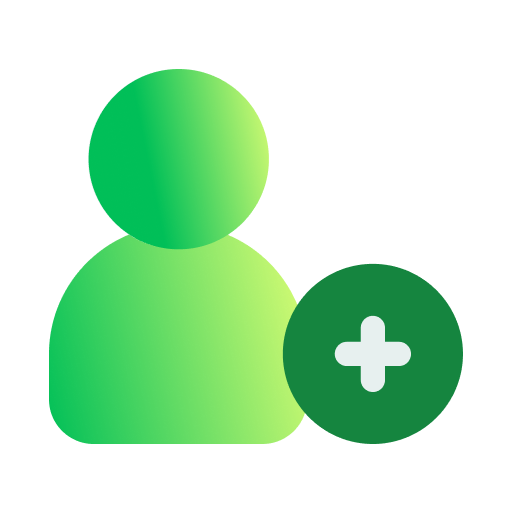
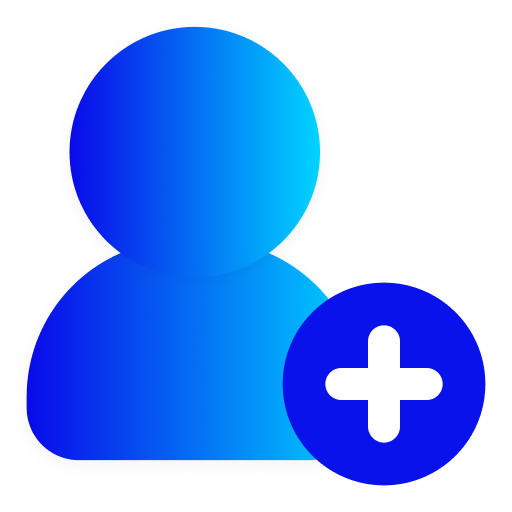
worked on update images and theme in alanced and aligned checkbox in findtalent.js.

diff --git a/src/container/hirer/FindTalent.js b/src/container/hirer/FindTalent.js
@@ -252,8 +252,8 @@ const FindTalent = () => {
     return (
       <>
       <Navbar/>
-      <div className="h-[43vh] bg-no-repeat -mt-[1.3rem] bg-cover" style={{ backgroundImage: `url(${mybg})` }}>
-        <div className='text-left pt-[3rem] ml-[13.5vw] text-2xl font-cardo'>
+      <div className="h-[43vh] bg-no-repeat -mt-[1.2rem] bg-cover" style={{ backgroundImage: `url(${mybg})` }}>
+        <div className='text-left pt-[6rem] ml-[13.5vw] text-2xl font-cardo'>
           <h1>Find & Hire Freelancers</h1>
           <p className='font-inter text-sm text-[#797979] font-normal mt-2'>More than 10K expert freelancers are waiting for you</p>
           <div className='lg:w-[44vw] bg-white p-3 lg:h-14 rounded-2xl lg:flex items-center mt-4 shadow-md'>
@@ -262,7 +262,7 @@ const FindTalent = () => {
               <input className='w-96 font-inter text-base ml-3 outline-none' placeholder='Search by Category' value={searchQuery} onChange={(e) => setSearchQuery(e.target.value)}></input>
             </div>
             <div className=''>
-              <button className='rounded h-8 w-24 lg:ml-6 font-semibold text-base text-white bg-gradient-to-r from-[#00BF58] to-[#E3FF75]'>Search</button>
+              <button className='rounded h-8 w-24 lg:ml-6 font-semibold text-base text-white bg-gradient-to-r from-[#0909E9] to-[#00D4FF]'>Search</button>
             </div>
           </div>
         </div>
@@ -283,7 +283,7 @@ const FindTalent = () => {
         onChange={handleSkillFilterChange}
       />
                   <div className="checkbox-border-gradient bg-transparent mr-3 w-5 h-5 rounded flex items-center justify-center">
-                      <span className="checkmark hidden"><i className="bi bi-check-lg pr-2 pt-2"></i></span>
+                      <span className="checkmark hidden"><i className="bi bi-check-lg pr-0.5 pt-2"></i></span>
                   </div>
                   <span className="normal-checkbox mr-3 border border-gray-300 w-5 h-5 inline-block rounded"></span>
                   <span className="font-normal text-[#797979]">{skill}</span>
@@ -320,7 +320,7 @@ const FindTalent = () => {
                 railStyle={{ background: 'lightgray' }}
                 trackStyle={[
                   {
-                    background: 'linear-gradient(45deg, #00BF58, #E3FF75)',
+                    background: 'linear-gradient(45deg, #0909E9, #00D4FF)',
                     borderColor: '#65a30d',
                   },
                 ]}
@@ -329,14 +329,14 @@ const FindTalent = () => {
                     backgroundColor: 'white',
                     borderColor: 'transparent', 
                     borderRadius: '50%', // Set border radius for circular shape
-                    borderImage: 'linear-gradient(45deg, #00BF58, #E3FF75)',
+                    borderImage: 'linear-gradient(45deg, #0909E9, #00D4FF)',
                     borderImageSlice: 1,
                   },
                   {
                     backgroundColor: 'white',
                     borderColor: 'transparent',
                     borderRadius: '50%',
-                    borderImage: 'linear-gradient(45deg, #00BF58, #E3FF75)',
+                    borderImage: 'linear-gradient(45deg, #0909E9, #00D4FF)',
                     borderImageSlice: 1,
                   },
                 ]}
@@ -346,7 +346,7 @@ const FindTalent = () => {
                 type="text"
                 value={range[0]}
                 onChange={(e) => handleInputChange(0, e.target.value)}
-                className='mt-3 bg-white text-center border rounded-md p-1 basis-6/12 font-inter text-base font-normal text-[#797979] w-24 focus:border-none focus:ring-2 focus:ring-green-700 focus:ring-opacity-60
+                className='mt-3 bg-white text-center border rounded-md p-1 basis-6/12 font-inter text-base font-normal text-[#797979] w-24 focus:border-none focus:ring-2 focus:ring-blue-700 focus:ring-opacity-60
                 focus:outline-none'
               /></div>
               <div className='basis-2/12 m-auto mt-4 text-center'><i class="bi bi-dash-lg text-[#475569]"></i></div>
@@ -354,7 +354,7 @@ const FindTalent = () => {
                 type="text"
                 value={range[1]}
                 onChange={(e) => handleInputChange(1, e.target.value)}
-                className='mt-3 bg-white text-center border rounded-md p-1 basis-6/12 font-inter text-base font-normal text-[#797979] w-24 focus:border-none focus:ring-2 focus:ring-green-700 focus:ring-opacity-60
+                className='mt-3 bg-white text-center border rounded-md p-1 basis-6/12 font-inter text-base font-normal text-[#797979] w-24 focus:border-none focus:ring-2 focus:ring-blue-700 focus:ring-opacity-60
                 focus:outline-none'
               /></div>
               </div>
@@ -373,7 +373,7 @@ const FindTalent = () => {
               onChange={handleCityFilterChange}
             />
             <div className="checkbox-border-gradient bg-transparent mr-3 w-5 h-5 rounded flex items-center justify-center">
-              <span className="checkmark hidden"><i className="bi bi-check-lg pr-2 pt-2"></i></span>
+              <span className="checkmark hidden"><i className="bi bi-check-lg pr-0.5 pt-2"></i></span>
             </div>
             <span className="normal-checkbox mr-3 border border-gray-300 w-5 h-5 inline-block rounded"></span>
             <span className="font-normal text-[#797979]">{location}</span>
@@ -411,7 +411,7 @@ const FindTalent = () => {
                   onChange={handleLanguageFilterChange}
                     />
                   <div className="checkbox-border-gradient bg-transparent mr-3 w-5 h-5 rounded flex items-center justify-center">
-                      <span className="checkmark hidden"><i className="bi bi-check-lg pr-2 pt-2"></i></span>
+                      <span className="checkmark hidden"><i className="bi bi-check-lg pr-0.5 pt-2"></i></span>
                   </div>
                   <span className="normal-checkbox mr-3 border border-gray-300 w-5 h-5 inline-block rounded"></span>
                   <span className="font-normal text-[#797979]">{language}</span>
@@ -450,7 +450,7 @@ const FindTalent = () => {
       />
               <div class="checkbox-border-gradient bg-transparent mr-3 w-5 h-5 rounded flex items-center justify-center">
                 
-                  <span class="checkmark hidden"><i class="bi bi-check-lg pr-2 pt-2"></i></span>
+                  <span class="checkmark hidden"><i class="bi bi-check-lg pr-0.5 pt-2"></i></span>
               </div>
                    <span class="normal-checkbox mr-3 border border-gray-300 w-5 h-5 inline-block rounded"></span>
               <span class="font-normal text-[#797979]">{exp}</span>
@@ -468,7 +468,7 @@ const FindTalent = () => {
       <h1  className="font-cardo text-[21px] text-[#031136] font-normal mr-1">Freelancers that Matches your Job</h1>
       </div>
       <div class="w-40  mt-3 relative">
-      <div class="absolute inset-0 bg-gradient-to-r from-[#00BF58] to-[#E3FF75] rounded-lg"></div>
+      <div class="absolute inset-0 bg-gradient-to-r from-[#0909E9] to-[#00D4FF] rounded-lg"></div>
       <div class="border-gray-600 border-b-2 rounded-lg"></div>
     </div>   
       </div>
@@ -493,7 +493,7 @@ const FindTalent = () => {
 {free.about && free.about.split(' ').length > 20 && (
     <button
         onClick={() => toggleShowMoreDes(free.id)}
-        className='font-inter text-green-600 text-[14px] cursor-pointer font-bold inline-block mb-2'
+        className='font-inter text-blue-600 text-[14px] cursor-pointer font-bold inline-block mb-2'
     >
         {showMoreDes[free.id] && showMoreDes[free.id].showAllDes ? 'See Less' : 'See More'}
     </button>
@@ -517,7 +517,7 @@ const FindTalent = () => {
                     JSON.parse(free.skills.replace(/'/g, '"')).length > 4 && (
                         <button
                             onClick={() => toggleShowMoreSkills(free.id)}
-                            className='font-inter text-green-600 text-[14px] cursor-pointer font-bold'
+                            className='font-inter text-blue-600 text-[14px] cursor-pointer font-bold'
                         >
                             {showMoreSkills[free.id] && showMoreSkills[free.id].showAll ? ' Less' : ' More'}
                         </button>
@@ -536,9 +536,9 @@ const FindTalent = () => {
           </div>
          
         <div className=' flex flex-row'>
-            <div className=' basis-8/12 absolute bottom-4 items-center font-inter text-green-600 text-[14px] cursor-pointer font-bold hover:underline'><Link to='/view-freelancer/detail' state={{ free }} onClick={() => window.scroll(0, 0) }><p>View more detail</p></Link></div>
+            <div className=' basis-8/12 absolute bottom-4 items-center font-inter text-blue-600 text-[14px] cursor-pointer font-bold hover:underline'><Link to='/view-freelancer/detail' state={{ free }} onClick={() => window.scroll(0, 0) }><p>View more detail</p></Link></div>
             <div className=' basis-4/12 absolute bottom-2 right-6 items-center space-x-2 ml-auto'><Link to='/login'>
-            <span className="inline-block text-sm px-4 py-[10px] mt-4 lg:mt-0 bg-gradient-to-r from-[#00BF58] to-[#E3FF75] border rounded border-none text-white font-semibold">Hire Now</span>
+            <span className="inline-block text-sm px-4 py-[10px] mt-4 lg:mt-0 bg-gradient-to-r from-[#0909E9] to-[#00D4FF] border rounded border-none text-white font-semibold">Hire Now</span>
         </Link></div>
         </div>
       </div>
@@ -578,7 +578,7 @@ const FindTalent = () => {
                             variant="outlined"
                             onClick={prev}
                             disabled={currentPage === 1}
-                            style={{ backgroundImage: 'linear-gradient(45deg, #00BF58, #E3FF75)', border: 'none' }}
+                            style={{ backgroundImage: 'linear-gradient(45deg, #0909E9, #00D4FF)', border: 'none' }}
                         >
                             <ArrowLeftIcon strokeWidth={2} className="h-4 w-4 text-white" />
                         </IconButton>
@@ -588,7 +588,7 @@ const FindTalent = () => {
                             return (
                                 <span
                                     key={pageNumber}
-                                    className={`px-0 py-1 ${currentPage === pageNumber ? 'bg-clip-text text-transparent bg-gradient-to-r from-[#00BF58] to-[#E3FF75] font-bold font-inter text-[14px] cursor-pointer' : 'text-[#0A142F] font-bold font-inter text-[14px] cursor-pointer'}`}
+                                    className={`px-0 py-1 ${currentPage === pageNumber ? 'bg-clip-text text-transparent bg-gradient-to-r from-[#0909E9] to-[#00D4FF] font-bold font-inter text-[14px] cursor-pointer' : 'text-[#0A142F] font-bold font-inter text-[14px] cursor-pointer'}`}
                                     onClick={() => {
                                         window.scrollTo(0, 0);
                                         setCurrentPage(pageNumber);
@@ -605,7 +605,7 @@ const FindTalent = () => {
                             variant="outlined"
                             onClick={next}
                             disabled={currentPage === totalPages}
-                            style={{ backgroundImage: 'linear-gradient(45deg, #00BF58, #E3FF75)', border: 'none' }}
+                            style={{ backgroundImage: 'linear-gradient(45deg, #0909E9, #00D4FF)', border: 'none' }}
                         >
                             <ArrowRightIcon strokeWidth={2} className="h-4 w-4 text-white" />
                         </IconButton>

diff --git a/src/components/Layout/WhyAlanced.js b/src/components/Layout/WhyAlanced.js
@@ -18,15 +18,15 @@ const WhyAlanced = () => {
     <div className='container-sm px-32 mt-10'>
       <div className=' flex flex-row border border-gray-200 rounded'>
         <div className=' basis-8/12'>
-          <h1 className='ml-8 text-left font-jost text-[26px] mt-6 font-semibold text-lime-600'>Take part in the global job market platform.</h1>
+          <h1 className='ml-8 text-left font-jost text-[26px] mt-6 font-semibold text-blue-600'>Take part in the global job market platform.</h1>
           <div class="w-36 ml-8  mt-1 relative">
-                <div class="absolute inset-0 bg-gradient-to-r from-[#00BF58] to-[#E3FF75] rounded-lg"></div>
+                <div class="absolute inset-0 bg-gradient-to-r from-[#0909E9] to-[#00D4FF] rounded-lg"></div>
                 <div class="border-gray-600 border-b-2 rounded-lg"></div>
                 </div>
           <p className=' ml-8 font-jost  text-[15px] mt-4 opacity-[70%] text-left'>Are you geared up to take your business<br/> or career to the next level?. </p>
           <div className=' flex flex-row mt-3  mb-3 ml-7'>
-            <Link to='/view-all/freelancer'><div className=' basis-2/12' ><button className='h-10 w-28 text-white bg-gradient-to-r from-[#00BF58] to-[#E3FF75] mt-5 text-base font-semibold rounded'>Find Talent</button></div></Link>
-            <Link to='/projects'><div class="p-0.5 mt-5 rounded bg-gradient-to-b from-[#00BF58] to-[#E3FF75] ml-5">
+            <Link to='/view-all/freelancer'><div className=' basis-2/12' ><button className='h-10 w-28 text-white bg-gradient-to-r from-[#0909E9] to-[#00D4FF] mt-5 text-base font-semibold rounded'>Find Talent</button></div></Link>
+            <Link to='/projects'><div class="p-0.5 mt-5 rounded bg-gradient-to-b from-[#0909E9] to-[#00D4FF] ml-5">
             <button class="px-2 py-1 bg-[#f8faf9] rounded"><p class="bg-gradient-to-r from-primary to-danger bg-clip-text text-transparent font-bold text-sm py-[4px] px-[8px]">Find Work</p></button>
             </div></Link>
             </div>
@@ -60,31 +60,31 @@ const WhyAlanced = () => {
           <div className=' basis-6/12 ml-16 border-r border-gray-200'>
             <h1 className='font-jost text-[24px] mt-8 text-left font-semibold' >Create a job posting and hire talent.</h1>
             <div class="w-32  mt-2 relative">
-                <div class="absolute inset-0 bg-gradient-to-r from-[#00BF58] to-[#E3FF75] rounded-lg"></div>
+                <div class="absolute inset-0 bg-gradient-to-r from-[#0909E9] to-[#00D4FF] rounded-lg"></div>
                 <div class="border-gray-600 border-b-2 rounded-lg"></div>
                 </div>
             <h1 className='font-jost text-[18px] mt-3 opacity-70 text-left'>Discover the perfect talent match in our Talent <br/>Marketplace.</h1>
             <p className='font-jost text-[15px] mt-4 opacity-70 text-left'>Publish your job listing on the global job market and <br/> anticipate a wave of proposals from skilled<br/> individuals spanning the globe</p>
             <p className='font-jost text-[15px] mt-4 opacity-70 text-left'>Our cutting-edge algorithms assist in identifying <br/> top candidates tailored to your needs.You have <br/> the opportunity to thoroughly review  profiles,<br/> portfolios, and feedback before granting<br/> approval.</p>
-            <div className=' text-left mb-8'> <Link to='/view-all/freelancer' onClick={() => window.scroll(0, 0)}><span class="inline-block text-[16px] px-5 py-[10px] mt-8 bg-gradient-to-r from-[#00BF58] to-[#E3FF75] border rounded border-none text-white mr-2 text-base font-semibold ">Talents</span></Link></div>
+            <div className=' text-left mb-8'> <Link to='/view-all/freelancer' onClick={() => window.scroll(0, 0)}><span class="inline-block text-[16px] px-5 py-[10px] mt-8 bg-gradient-to-r from-[#0909E9] to-[#00D4FF] border rounded border-none text-white mr-2 text-base font-semibold ">Talents</span></Link></div>
           </div>
           <div className=' basis-6/12 ml-16'>
           <h1 className='font-jost text-[24px] mt-8 text-left font-semibold' >Explore projects and get opportunities.</h1>
           <div class="w-32  mt-2 relative">
-                <div class="absolute inset-0 bg-gradient-to-r from-[#00BF58] to-[#E3FF75] rounded-lg"></div>
+                <div class="absolute inset-0 bg-gradient-to-r from-[#0909E9] to-[#00D4FF] rounded-lg"></div>
                 <div class="border-gray-600 border-b-2 rounded-lg"></div>
                 </div>
             <h1 className='font-jost text-[18px] mt-3 opacity-70 text-left'>Initiate essential tasks without delay using Project<br/> Catalog.</h1>
             <p className='font-jost text-[15px] mt-4 opacity-70 text-left'>Dive into a world of projects and unlock valuable work.<br/> discover a realm of possibilities and embark on <br/>your journey to new horizons.</p>
             <p className='font-jost text-[15px] mt-4 opacity-70 text-left'>Our platform offers a gateway to a world of diverse <br/>projects, where you can explore, engage, and <br/>embark on new ventures. Whether you're a seasoned<br/> professional looking to expand your horizons or a<br/> fresh talent eager to make your mark.</p>
-            <div className=' text-left mb-8'> <Link to='/projects' onClick={() => window.scroll(0, 0)}><span class="inline-block text-[16px] px-7 py-[10px] mt-8 bg-gradient-to-r from-[#00BF58] to-[#E3FF75] border rounded border-none text-white mr-2 font-semibold text-base">Works</span></Link></div>
+            <div className=' text-left mb-8'> <Link to='/projects' onClick={() => window.scroll(0, 0)}><span class="inline-block text-[16px] px-7 py-[10px] mt-8 bg-gradient-to-r from-[#0909E9] to-[#00D4FF] border rounded border-none text-white mr-2 font-semibold text-base">Works</span></Link></div>
           </div>
         </div>
         <div className=' flex flex-row mt-12 mb-5'>
           <div className=' basis-9/12 ml-4'>
             <h1 className='text-left font-jost text-[26px] mt-6 font-semibold'>We are available 24/7</h1>
             <div class="w-32  mt-2 relative">
-                <div class="absolute inset-0 bg-gradient-to-r from-[#00BF58] to-[#E3FF75] rounded-lg"></div>
+                <div class="absolute inset-0 bg-gradient-to-r from-[#0909E9] to-[#00D4FF] rounded-lg"></div>
                 <div class="border-gray-600 border-b-2 rounded-lg"></div>
                 </div>
             <p className='font-jost  text-[15px] mt-4 opacity-[70%] text-left'>Our availability is unwavering, ensuring your access to our services around the clock, 24 hours a day, 7 days a week. Whenever you need assistance, support, or have inquiries, we're here to respond promptly, no matter the time or day. Our commitment to round-the-clock availability means you can rely on us for assistance, guidance, and peace of mind at any hour, making your experience seamless and convenient.</p>
